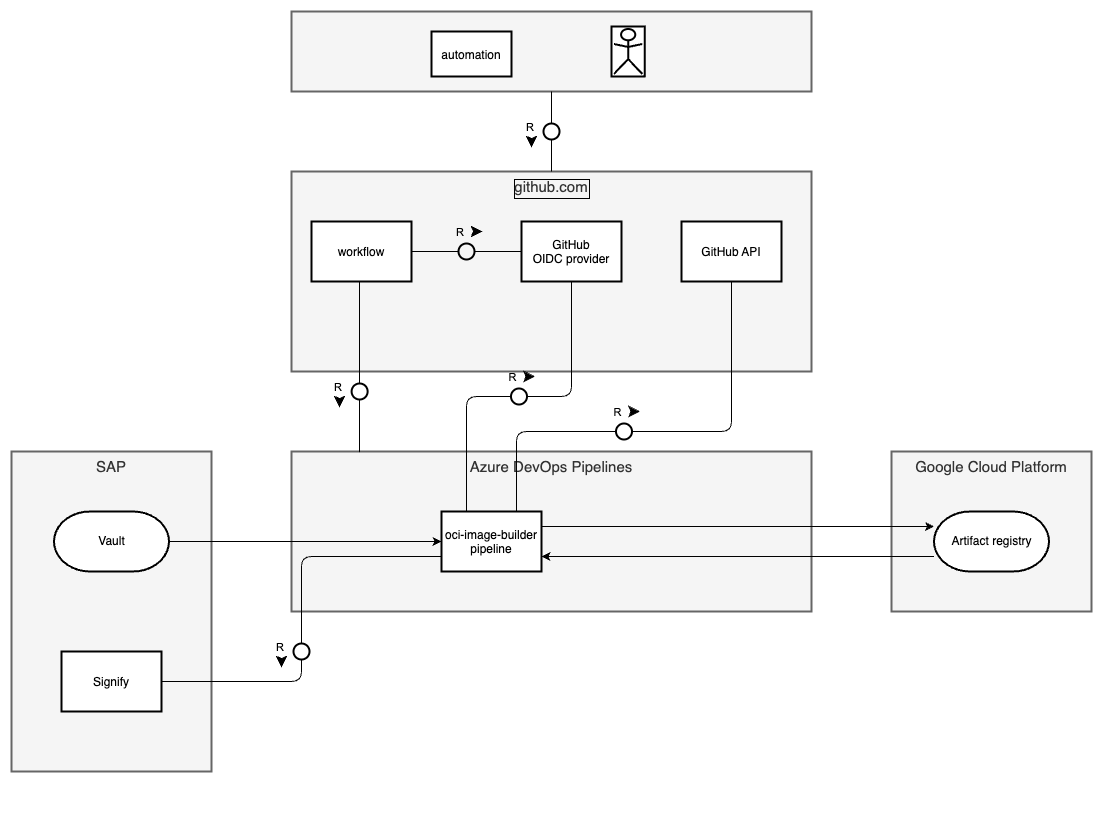
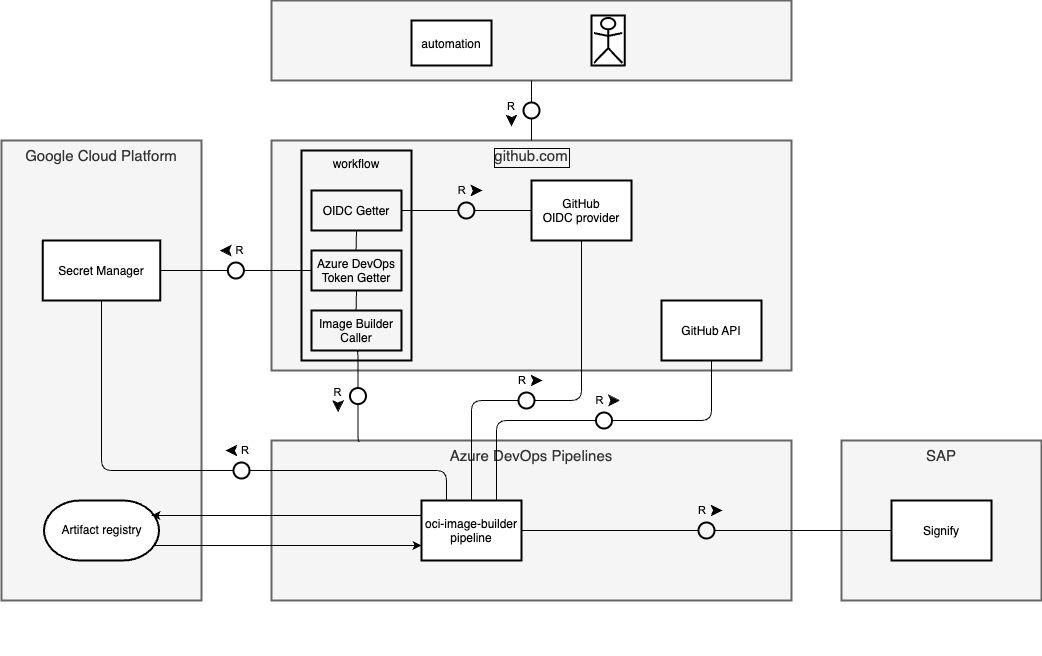
Add documentation for image-builder github action (#10872)
* Generate output with list of images built by ado

* Add extract logic for ADO logs

* Set images output as JSON array in image-builder workflow

* Merge image-builder jobs

* Fix output job

* Add ado result as output

* Add readme to image-builder github aciton

* Update readme

* Update activty diagram

* Update block diagram

* Update .github/actions/image-builder/README.md

* Update .github/actions/image-builder/README.md

* Update .github/actions/image-builder/README.md

* Update .github/actions/image-builder/README.md

* Update .github/actions/image-builder/README.md

* Update .github/actions/image-builder/README.md

* Update .github/actions/image-builder/README.md

* Update .github/actions/image-builder/README.md

* Update .github/actions/image-builder/README.md

* Update .github/actions/image-builder/README.md

* Update .github/actions/image-builder/README.md

* Apply suggestions from code review

* Apply suggestions from code review

* Apply suggestions from code review

* Update .github/actions/image-builder/README.md

* Bumping test-infra and testimages and test-infra-prod and image-builder (#10908)

No eu.gcr.io/kyma-project/test-infra/ changes.

europe-docker.pkg.dev/kyma-project/prod/testimages/ changes: https://github.com/kyma-project/test-infra/compare/276e1bee...9a298198 (2024&#x2011;06&#x2011;03 → 2024&#x2011;06&#x2011;04)

No europe-docker.pkg.dev/kyma-project/prod/test-infra/ changes.

No europe-docker.pkg.dev/kyma-project/prod/image-builder changes.
[…]

diff --git a/.github/actions/image-builder/README.md b/.github/actions/image-builder/README.md
@@ -1,0 +1,43 @@
+# Image Builder Action
+
+The image-builder action triggers the image-builder service. It receives authentication tokens (**oidc** and **azure personal access token**) from inputs as well as from the image name.
+
+Optionally, you can set other inputs to control which image with which context should be built.
+
+# Inputs
+Descriptions of each input is available in the [`action`](https://github.com/kyma-project/test-infra/blob/main/.github/actions/image-builder/action.yml#L3-L44) file.
+
+# Outputs
+Descriptions of each output is available in the [`action`](https://github.com/kyma-project/test-infra/blob/main/.github/actions/image-builder/action.yml#L46-L52) file.
+
+# How It Works?
+
+The image-builder action uses a **europe-docker.pkg.dev/kyma-project/prod/image-builder** Docker image to trigger a pipeline in Azure DevOps (ADO). It passes parameters using REST API provided by ADO. The definition of parameters passed through REST API is taken from kaniko-build-config located on the `main` branch of the `test-infra` repository and GitHub context.
+
+During the ADO pipeline execution, the image-builder action checks for the status to be reported. When the execution ends, it fetches the status and logs.
+
+If the execution fails, the image-builder action fails. If the execution succeeds, it sets the output and success status.
+
+# Example Usage
+
+```
+- uses: ./.github/actions/image-builder
+        id: build
+        name: Run build in image-builder
+        with:
+          oidc-token: 'oidc-token'
+          ado-token: ${{ secrets.ADO_PAT }}
+          context: '.'
+          build-args: |
+            arg1=value1
+            arg2=value2
+          tags: |
+            latest
+            main
+            commit=${{ .ShortSHA }}
+          export-tags: true
+          image-name: 'ginkgo'
+          dockerfile: 'Dockerfile'
+          env-file: 'envs'
+          config: "./configs/kaniko-build-config.yaml"
+```
